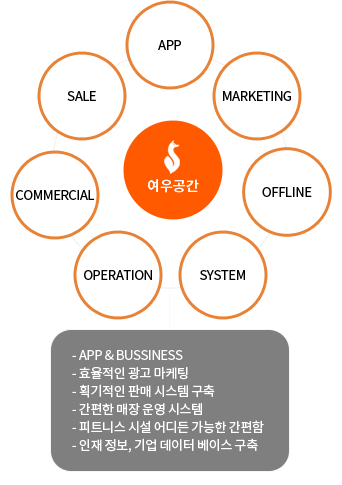
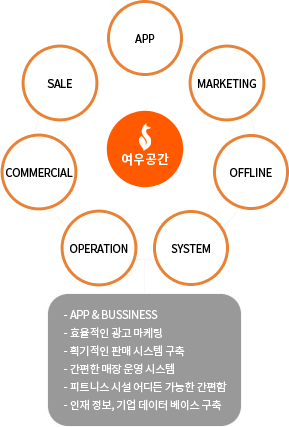
end end end

diff --git a/styles/global.css b/styles/global.css
@@ -373,6 +373,7 @@ p {
 .location-list .home{position:relative;top:-2px; width:12px; height:11px; background:url('/home/images/icon_home.png')no-repeat center center; background-size: 100% auto; display: inline-block; font-size:0; }
 
 /*business*/
+.business_all_t {display: none;}
 .business_all_m {display: none;}
 .business_all {position: relative; margin:0 auto; margin-top:90px; }
 .business_all .line1{border:1px solid rgba(255,255,255,0.3); width:450px; height:450px; border-radius: 50%; top:5%; left:50%; transform: translate(-50%, 0%); position: absolute;}
@@ -381,7 +382,7 @@ p {
 .business_all .center_circle span{color:#fff; font-size:19px; font-weight:600; position: relative; top:55%;}
 .business_all .center_circle span::before{position:absolute; content: ''; display: block;background:url('/home/images/sub_logo.png')no-repeat center center;
     width:22px; height:48px; top:-50px; left:24px;}
-
+.recovery_all_t {display: none;}
 .recovery_all_m {display: none;}
 .recovery_all {position: relative; margin:0 auto; margin-top:90px; }
 .recovery_all .line1{border:1px solid rgba(255,255,255,0.3); width:450px; height:450px; border-radius: 50%; top:5%; left:50%; transform: translate(-50%, 0%); position: absolute;}
@@ -446,6 +447,7 @@ p {
 .recovery_circle2{top:312px; left:50%; margin-left:-40px;}
 .recovery_circle3{top:170px; left:50%; margin-left:-164px;}
 
+.new_all_t {display: none;}
 .new_all_m {display: none;}
 .new_all {position: relative; /*margin:0 auto; margin-top:90px;*/ display: flex; width:900px;left:50%; transform: translateX(-50%); justify-content: center; }
 .new_all ::after{content: ''; clear: both; display: block;}
@@ -590,16 +592,16 @@ max-width:500px; min-width:300px; padding: 12px; position: absolute; opacity: 0;
     .tooltip .tooltip-content{opacity: 1;}
    
     .business_all {display: none; }
-    .business_all_m{display: block; width:422px;margin:30px auto 0;}
-    .business_all_m img{width:100%;}
+    .business_all_t{display: block; width:422px;margin:30px auto 0;}
+    .business_all_t img{width:100%;}
 
     .recovery_all {display: none;}
-    .recovery_all_m{display: block; width:422px;margin:30px auto 0;}
-    .recovery_all_m img{width:100%;}
+    .recovery_all_t{display: block; width:422px;margin:30px auto 0;}
+    .recovery_all_t img{width:100%;}
     
     .new_all{display: none; }
-    .new_all_m{display: block; width:342px;margin:30px auto 0;}
-    .new_all_m img{width:100%;}
+    .new_all_t{display: block; width:332px;margin:30px auto 0;}
+    .new_all_t img{width:100%;}
 
     .Performance_graph{width:700px;margin-top:30px;}
     .Performance_graph .img{width:700px; }
@@ -759,3 +761,17 @@ max-width:500px; min-width:300px; padding: 12px; position: absolute; opacity: 0;
 }
 
 
+@media screen and (max-width:380px) {
+
+    .business_all, .business_all_t {display: none; }
+    .business_all_m{display: block; width:319px;margin:15px auto 0;}
+    .business_all_m img{width:100%;}
+
+    .recovery_all, .recovery_all_t {display: none;}
+    .recovery_all_m{display: block; width:319px;margin:15px auto 0;}
+    .recovery_all_m img{width:100%;}
+    
+    .new_all, .new_all_t{display: none; }
+    .new_all_m{display: block; width:289px;margin:15px auto 0;}
+    .new_all_m img{width:100%;}
+}

diff --git a/pages/home/service/index.js b/pages/home/service/index.js
@@ -184,6 +184,9 @@ export default function Home() {
                                         <a href="#" className="business_circle4"><span>개점 오픈</span></a>
                                     </div>
                                 </div>
+                                <div className="business_all_t">
+                                    <img src="/home/images/startup_t.png" alt="graph" />
+                                </div>
                                 <div className="business_all_m">
                                     <img src="/home/images/startup_m.png" alt="graph" />
                                 </div>
@@ -341,6 +344,9 @@ export default function Home() {
                                         <a href="#" className="recovery_circle3"><span>컨설팅<br/>계약체결</span></a>
                                     </div>
                                 </div>
+                                <div className="recovery_all_t">
+                                    <img src="/home/images/project_t.png" alt="graph" />
+                                </div>
                                 <div className="recovery_all_m">
                                     <img src="/home/images/project_m.png" alt="graph" />
                                 </div>
@@ -497,6 +503,9 @@ export default function Home() {
                                             <li>인재 정보,기업 데이터 베이스 구축</li>
                                         </ul>
                                     </div>
+                                </div>
+                                <div className="new_all_t">
+                                    <img src="/home/images/new_t.png" alt="graph" />
                                 </div>
                                 <div className="new_all_m">
                                     <img src="/home/images/new_m.png" alt="graph" />
